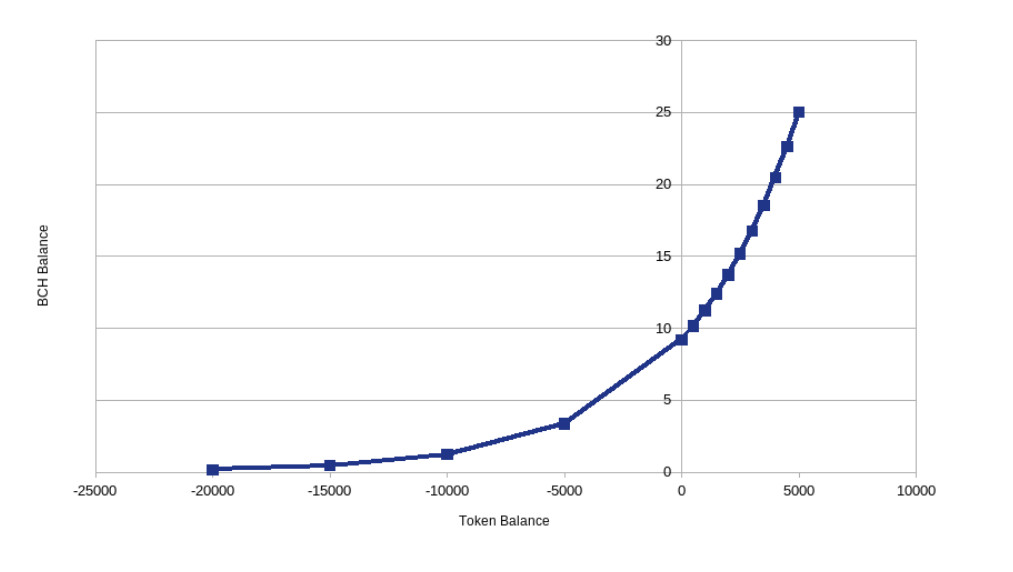
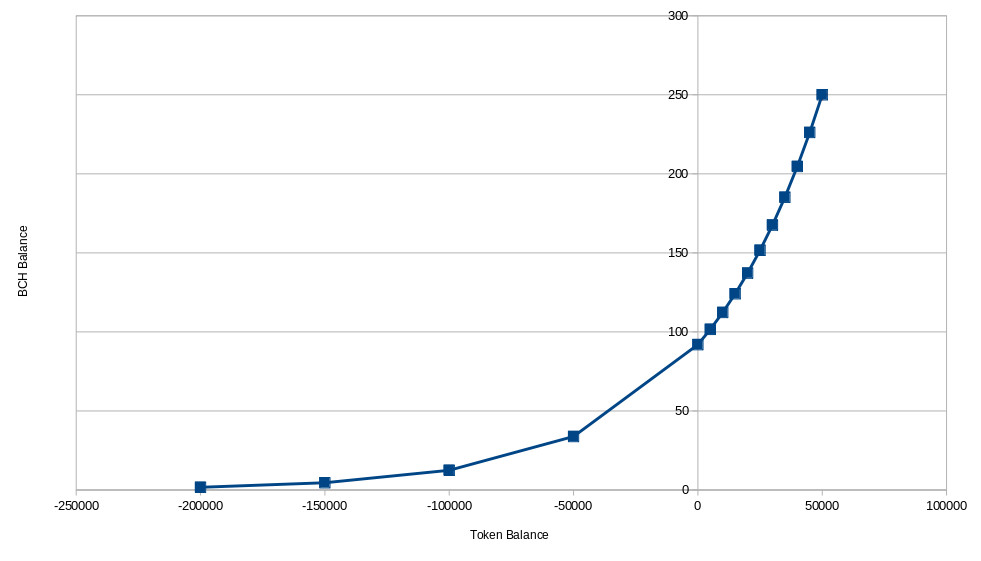
Updated biz plan with new ideas for funding

diff --git a/markdown/business-plan/business-plan.md b/markdown/business-plan/business-plan.md
@@ -1,11 +1,13 @@
 ---
-date: "2019-09-01"
+date: "2029-04-30"
 title: "PSF Token - Business Plan"
 root: "/biz-plan"
 path: "/biz-plan/business-plan"
 ---
 
 ## Table of Contents
+**Note**: The TOC has not been updated
+
 - Overview
   - [Executive Summary](#executiveSummary)
   - [The Problem: Underfunded Open Source Projects](#problem)
@@ -51,16 +53,17 @@ path: "/biz-plan/business-plan"
 
 
 ## Executive Summary<a name="executiveSummary"></a>
-This document lays out the business model and formation plans for the *Permissionless Software Foundation* (**PSF**). The Foundation is a community-oriented and legally-nonexistent organization whos purpose is to foster the <u>growth of open source software</u> and the <u>adoption of Bitcoin Cash</u> across the globe. The PSF will offer a Simple Ledger Protocol (**SLP**) token on the Bitcoin Cash (**BCH**) network to self-fund the development of open source software, and recognize contributors that help the organization grow.
+This document lays out the business model and formation plans for the *Permissionless Software Foundation* (**PSF**). The Foundation is a community-oriented, highly automated, and legally-nonexistent organization who's purpose is to foster the <u>growth of open source software</u> and the <u>adoption of Bitcoin Cash</u> across the globe. The PSF will offer a Simple Ledger Protocol (**SLP**) token on the Bitcoin Cash (**BCH**) network to self-fund the development of open source software, and reward contributors that help the organization grow.
 
-The focus of efforts will be on software that fits the software as a service (SaaS) business model, as that model lends itself best to the use of a native utility token. Many ideas are borrowed from [the Bancor whitepaper](https://github.com/Permissionless-Software-Foundation/token-liquidity/blob/master/docs/bancor-protocol-whitepaper.pdf), such as the concepts of token liquidity and forming a community that can self-fund through a native token. See [this video](https://youtu.be/LcbHTF3zCdI) for additional background. The *primary purpose of the token* is to <u>recognize</u> and <u>quantify</u> contributions by community members.
+The focus of efforts will be on the software as a service (SaaS) business model, as that model lends itself best to the use of a native utility token. The use of SaaS software by end-users imbues the token with financial value. Many ideas are borrowed from [the Bancor whitepaper](https://github.com/Permissionless-Software-Foundation/token-liquidity/blob/master/docs/bancor-formulas/bancor-protocol-whitepaper.pdf), such as the concepts of token liquidity and forming a community that can self-fund through a native token. See [this video](https://youtu.be/LcbHTF3zCdI) for additional background. The *primary purpose of the token* is to fund developers and other contributors, in order to maintain and improve the SaaS software produced by the Foundation.
 
-The Foundation will fund development of SaaS open source software projects. The value of this software will be monetized through the burning of PSF utility tokens. The Foundation will manage projects with the goal of creating a positive-reinforcement cycle between developers, software, and the pseudo-stable utility token. **The primary business problem that the token-economic model solves is rewarding contributors later in the software life cycle.**
+When end-users pay for software services, the BCH they pay goes to burn tokens, and BCH is captured in a special [token-liquidity application](https://github.com/Permissionless-Software-Foundation/token-liquidity) (inspired by the Bancor whitepaper). The price of the token is pegged to BCH through the use of the token-liquidity app, which provides perfect liquidity between BCH and the token. Contributors are funded via token-grants, by existing token holders. The token-liquidity application allows contributors to exchange their tokens for BCH.
 
-When the token is used to pay for software services, the tokens are burned, and BCH is captured in a special [token-liquidity application](https://github.com/Permissionless-Software-Foundation/token-liquidity), inspired by the Bancor whitepaper. This application allows community members to exchange their tokens for BCH, providing perfect liquidity. The price of the token is loosely pegged to BCH through an adjustable exchange rate. The loose peg allows supply and demand dynamics to work naturally, but retards wild market swings.
+As long as efforts by developers result in stable, valuable software services, the token will maintain its peg to BCH. New tokens are minted to fund developers, and old tokens are taken out of circulation through the burning mechanism of users consuming services. New tokens are directed by existing token holders to fund developer grants every three months.
+
 
 ## The Problem: Underfunded Open Source Projects<a name="problem"></a>
-Funding for open source software projects is a well studied and unsolved social problem, primarily due to the concept of [code rot](https://en.wikipedia.org/wiki/Software_rot) in modern software development. Rather than rehash or summarize the issue, interested readers should refer to this seminal work by Nadia Eghbal:
+Funding for open source software projects is a well studied and unsolved social problem, primarily due to the concept of [code rot](https://en.wikipedia.org/wiki/Software_rot) in modern software development. This problem includes the cryptocurrency space, but is much larger, encompassing the majority of the open source industry. Rather than rehash or summarize the issue, interested readers should refer to this seminal work by Nadia Eghbal:
 
 - [Roads and Bridges: The Unseen Labor Behind Our Digital Infrastructure](https://www.fordfoundation.org/about/library/reports-and-studies/roads-and-bridges-the-unseen-labor-behind-our-digital-infrastructure)
 
@@ -75,12 +78,12 @@ Here is a list of articles discussing this idea further:
 ## The Permissionless Software Foundation<a name="thePSF"></a>
 
 ### Mission<a name="mission"></a>
-The mission of the Permissionless Software Foundation is to foster the <u>growth of open source software</u> and the <u>adoption of Bitcoin Cash</u> across the globe. We belive this is the best way to promote individual sovereignty and increase prosperity. The Foundation will focus on the development, management, and promotion of software that makes it easy for individuals to protect their privacy, circumvent censorship, and engage in economic action.
+The mission of the Permissionless Software Foundation is to foster the <u>growth of open source software</u> and the <u>adoption of Bitcoin Cash</u> across the globe. We believe this is the best way to promote individual sovereignty and increase prosperity. The Foundation will focus on the development, maintenance, and promotion of software that makes it easy for individuals to protect their privacy, circumvent censorship, and engage in economic action.
 
 #### Tools to fight surveillance<a name="antiSurveillance"></a>
 The primary tool used to protect privacy is [the Tor network](https://www.torproject.org/). The Tor network and tor-accessible browsers like [Brave browser](https://brave.com/browser-option-a-hpa811/) work within the current [server-client paradigm](https://en.wikipedia.org/wiki/Client%E2%80%93server_model), but they provide a layer of anonymity by hiding the server IP address inside the Tor network.
 
-For financial privacy, cryptocurrency will be used, combined with obfuscation technologies such as [Consolidating CoinJoin](https://gist.github.com/christroutner/457b99b8033fdea5ae565687e6360323), [CashShuffle](https://cashshuffle.com/), or [Cash Fusion](https://news.bitcoin.com/bitcoin-cash-gets-significant-privacy-boost-with-cashfusion-alpha-launch/)
+For financial privacy, cryptocurrency will be used, combined with obfuscation technologies such as [CashShuffle](https://cashshuffle.com/), [Cash Fusion](https://news.bitcoin.com/bitcoin-cash-gets-significant-privacy-boost-with-cashfusion-alpha-launch/), or [Consolidating CoinJoin](https://gist.github.com/christroutner/457b99b8033fdea5ae565687e6360323).
 
 #### Tools to fight censorship<a name="antiCensorship"></a>
 The primary tool used to prevent censorship will be [IPFS](https://ipfs.io/) and the Bitcoin Cash blockchain. These two peer-to-peer (p2p) networks have individually [proven](http://la3.org/~kilburn/blog/catalan-government-bypass-ipfs/) robust censorship resistance throughout their short lives. The Foundation offers software that [combine these two technologies](https://troutsblog.com/about).
@@ -88,7 +91,7 @@ The primary tool used to prevent censorship will be [IPFS](https://ipfs.io/) and
 ### Governance<a name="governance"></a>
 
 #### Short-term, General Discussion<a name="generalDiscussion"></a>
-Day-to-day, short-term communication will take place on [this Telegram channel](https://t.me/permissionless_software). For private, end-to-end encrypted communication, we have created [this Tor-friendly chat web app]((https://chat.psfoundation.cash/))
+Day-to-day, short-term communication will take place on [this Telegram channel](https://t.me/permissionless_software). For private communication, we have a range of end-to-end encrypted applications.
 
 #### Long-term, Technical Discussion<a name="technicalDiscussion"></a>
 For long-term, technical discussions, GitHub Issues will be used. GitHub Issues have a proven and effective track record for technical collaboration. Issues will also be an important element in coordinating labor using the token economics presented in this document.
@@ -98,33 +101,13 @@ For long-term, technical discussions, GitHub Issues will be used. GitHub Issues 
 #### Discussion of Governance<a name="governanceDiscussion"></a>
 [Loomio](https://www.loomio.org/) is a proven platform for democratic discussion and decision making. Non-technical, long-term discussions, like those around governance, will take place on the [PSF Loomio group](https://www.loomio.org/join/group/46sYVVAhsMo5aWzr4jF71ZJS/).
 
-#### Board of Directors<a name="boardOfDirectors"></a>
-A board of directors will slowly be created to help govern the Foundation. The goal is to decentralize power within the organization so that no one entity represents a single point of failure. Pseudonyms for board members, to protect their identity from the wider world, will be allowed and encouraged.
+While none of the proposals on Loomio are binding, they will inform token holders who help fund new grants.
 
-The primary duties of the board of directors are short and simple:
-- The board has the sole power to create new tokens. The tokens are primarily used to recognize contributors that help the organization grow.<br /><br />
-
-- They can also approve the transfer of tokens or BCH into the token-liquidity app, in order to help the token stay close to the psudo-stable peg.
-
-To prevent abuse, seek consensus, and reduce central points of failure, new token issuance will require a 3-of-5 signature. New tokens can only be created if 3 of the 5 directors sign the transaction with their private key. Likewise, BCH held by the organization can only be spent if three of the five keys sign for the transaction.
-
-The ‘creation address’ for new tokens will be changed annually. In addition to good security, this process will ensure all board members are familiar with the process of adding and removing private keys, so that keys can be replaced easily if a security compromise occurs.
-
-Members of the board of directors will posses deep knowledge in one or more of these area:
-- Cryptography
-- Tor and obfuscation technologies
-- Business experience in the cryptocurrency space
-- JavaScript
-- Networking and Dev Ops
-- International law on cryptocurrencies
-
-#### Board of Advisors<a name="boardOfAdvisors"></a>
-A board of advisors will also be assembled to provide guidance on matters of technical, legal, and governance matters.
+#### Less is More
+The level of governance is intentionally minimized. Funding from new tokens is directed by existing token holders, because they have the most to lose if those fund are misallocated. In this way, governance is left up to a free market of stakeholders with 'skin in the game'.
 
 ## Token Economics<a name="tokenEconomics"></a>
-Before delving into the specifics of the token economics, it's important to keep the big picture in mind: The purpose of the mathematics behind the token is to allow free market supply-and-demand to control the price, but to institute 'guard rails' in the event of market panics or irrational exuberance, and thereby encourage the price of the token to gravitate towards a pseudo-stable price point.
-
-The value created by the Permissionless Software Foundation comes from both managing the software projects and managing this **pseudo-stable peg** between BCH and the token. The Foundation is as much an institution for creating software, as it is a central bank of their own community-based economy.
+Before delving into the specifics of the token economics, it's important to keep the big picture in mind: The purpose of the mathematics behind the token is to enable steady funding of development, and fair incentives for collaboration, in order to further the Foundation's mission.
 
 ### Token Creation, Issuance, and Wallet<a name="tokenCreation"></a>
 The proposed PSF token will be issued on the Bitcoin Cash (BCH) blockchain using the [Simple Ledger Token Protocol (SLP)](https://simpleledger.cash/). The token is currently exchanged using the [Badger Wallet](https://badger.bitcoin.com/), the [Bitcoin.com wallet](https://wallet.bitcoin.com), and several up-and-coming SLP token-aware wallets, by sending either BCH or PSF tokens to this BCH address:
@@ -138,7 +121,7 @@ The PSF token is identified by its unique SLP property token ID of:
 The minting baton for creating new tokens is active and controlled by the Permissionless Software Foundation. That means there is no cap on the token issuance. The Board of Directors of the Foundation will have the sole power to create tokens at-will, to reimburse or recognize the effort of community members.
 
 #### Value Creation<a name="valueCreation"></a>
-At the center of the token economics is the [liquidity app](https://github.com/Permissionless-Software-Foundation/token-liquidity), allowing community members to permissionlessly exchange tokens for Bitcoin Cash (or Bitcoin Cash for tokens) at any time. Because the Foundation has the sole power to create new tokens, it has the obligation to regulate the price of the token and work with the mathematics of the app to achieve a pseudo-stable price.
+At the center of the token economics is the [liquidity app](https://github.com/Permissionless-Software-Foundation/token-liquidity), allowing community members to permissionlessly exchange tokens for Bitcoin Cash (or Bitcoin Cash for tokens) at any time, while maintaining a peg to the Bitcoin Cash (BCH) coin.
 
 Price management is intended to follow a reinforcing ‘virtuous circle’ of value as follows:
 
@@ -147,7 +130,7 @@ Price management is intended to follow a reinforcing ‘virtuous circle’ of va
 2. Continuous efforts by developers and contributors make the software more valuable and should increase usage of the software.<br /><br />
 
 3. Users inject value into the token economy in one of two ways. Both activities increase the market price of the token.
-    - They acquire tokens to use the software by sending BCH to the liquidity app.
+    - They acquire tokens to use software by sending BCH to the liquidity app.
     - They pay BCH to the apps they interact with and that app sends a portion of the BCH to the token-liquidity app with instructions to burn that amount of tokens.
 
 4. Contributors can trade their tokens for BCH via the liquidity app. They can then spend the BCH directly or convert it into their local fiat currency via a local exchange.
@@ -158,63 +141,63 @@ To be clear, the token does not become more valuable because of the labor of the
 
 2. Studies have shown no correlation between the number of users and the number of developers in an open source project, which is why unfunded open source projects are such a big social problem (example: [the Heartbleed bug](https://mashable.com/2014/04/14/heartbleed-open-source/#IxuitorltiqZ)). This also means that targeted effort by a few developers can provide a great deal of value to a large population of users.
 
-**It is <u>demand for</u> and <u>usage of</u> software and services which monetize the token, that captures value and increases the price of the token.** This allows open source developers to capture value later in the software life cycle. Rewarding developers later in the software life cycle **is the problem this business model solves**.
+**It is <u>demand for</u> and <u>usage of</u> software and services which monetizes the token, captures value, and increases the price of the token.** This allows open source developers to capture value later in the software life cycle. Rewarding developers later in the software life cycle **is the main problem this business model solves**.
 
 #### Scope of Value: SaaS<a name="scopeOfValue"></a>
-Price appreciation of the token is directly tied to usage of the token and management of supply. For this reason, the Foundation must be very selective of the class of software it supports. The ‘Software as a Service’ business model is the most conducive, where usage of the software is directly tied to usage of the token. This business model will be a prerequisite for any project sponsored by the Foundation.
+The stability of the peg between BCH and the token is directly tied to <u>usage</u> of the token and management of <u>supply</u>. For this reason, token holders must be very selective of the class of software they support. The ‘Software as a Service’ business model is the most conducive, where usage of the software is directly tied to usage of the token. This business model will be a prerequisite for any project sponsored by the community governing the Permissionless Software Foundation.
 
 #### A Pseudo-Stable Token<a name="pseudoStableToken"></a>
 ##### Bancor & Liquidity<a name="bancor"></a>
 [The Bancor whitepaper](https://github.com/Permissionless-Software-Foundation/token-liquidity/blob/master/docs/bancor-protocol-whitepaper.pdf) was the original inspiration for the token liquidity app and token economics discussed below. They were the first to introduce the thesis that liquidity is what differentiates ‘real money’ from ‘pretend money’, and to facilitate perfect liquidity in cryptocurrencies through the use of an autonomous application. See [this video](https://youtu.be/LcbHTF3zCdI) for additional background.
 
-Using the [Metamask](https://metamask.io/) browser extension, funded with a small amount of Ethereum, you can play with their token liquidity apps by visiting https://bancor.network. This same user experience is possible on the Bitcoin Cash blockchain using [Badger Wallet](https://badger.bitcoin.com/) and the [token liquidity app](https://github.com/Permissionless-Software-Foundation/token-liquidity) introduced here.
+Using the [Metamask](https://metamask.io/) browser extension, funded with a small amount of Ethereum, you can play with their token liquidity apps by visiting [bancor.network](https://bancor.network). This same user experience is possible on the Bitcoin Cash blockchain using [Badger Wallet](https://badger.bitcoin.com/) and the [token liquidity app](https://github.com/Permissionless-Software-Foundation/token-liquidity) on the [PSF website](https://psfoundation.cash).
 
-While Bancors token liquidity concept was implemented as a smart contract on the Ethereum blockchain, the token liquidity app for the Permissionless Software Foundation is implemented as a web app on the BCH blockchain using the [SLP JavaScript SDK](https://developer.bitcoin.com/slp). While the mathematics governing the Foundation’s app is similar in nature, the original mathematics in the Bancor whitepaper was ultimately rejected in favor of the mathematics presented here. The curve below illustrates the effective 'exchange rate' between tokens and BCHs as a function of the apps balance of each.
+While Bancors token liquidity concept was implemented as a smart contract on the Ethereum blockchain, the token liquidity app for the Permissionless Software Foundation is implemented as a web app on the BCH blockchain using [FullStack.cash](https://fullstack.cash) software. While the mathematics governing the Foundation’s app is similar in nature, the original mathematics in the Bancor whitepaper was ultimately rejected in favor of the mathematics presented here. The curve below illustrates the effective 'exchange rate' between tokens and BCHs as a function of the apps balance of each.
 
-![Exchange Rate Curve](./images/app-curve.jpg 'The Exchange Rate curve for the token liquidity app as a function of the apps token and BCH balance.')
+![Exchange Rate Curve](./images/hybrid-exchange-rate1.jpg 'The Exchange Rate curve for the token liquidity app as a function of the apps token and BCH balance.')
 
-![./images/app-equations.jpg](./images/app-equations.jpg 'The equations governing the curve above.')
+![./images/app-equations.jpg](./images/app-equations.jpg 'The equations governing the curve with a balance less than 250 BCH.')
+
+![./images/app-equations-linear.jpg](./images/app-equations-linear.jpg 'The equations governing the curve with a balance greater than 250 BCH.')
 
 - I subscript denotes initial value.
 - Delta (Δ) denotes change in value.
 - Negative token balance: tokens in, BCH out
 - Positive token balance: tokens out, BCH in
 
-The liquidity app serves as an automated market maker, continuously adjusting the exchange rate according to the logarithmic equation above. The curve above was generated by assuming the app starts out with an initial balance of 25 BCH and 5000 tokens. This sets the <u>pseudo-stable price point</u> at 200 tokens-per-BCH (5000 / 25 = 200). These simple equations provide the following characteristics:
+The liquidity app serves as an automated market maker, continuously adjusting the exchange rate according to the logarithmic equation above. The curve above was generated by assuming the app starts out with an initial balance of 250 BCH and 50,000 tokens. This sets the <b>inflection point</b> at 200 tokens-per-BCH (50000 / 250 = 200). These simple equations provide the following characteristics:
 
 
-- **The application can never run out of BCH.** As more BCH is extracted from the app, the exchange rate decreases in such a way that the entire amount of BCH can never be completely extracted.<br /><br />
+- **The application can never run out of BCH.** As more BCH is extracted from the app, the exchange rate decreases according to the natural logarithm, so that the entire amount of BCH can never be completely extracted.<br /><br />
 
-- **The price of the token increases exponentially with demand.** Because of the rapid price appreciation, developers are incentivized to hold their tokens to maximize the profit from their efforts. But due to the liquidity provided by the app, they are free to ‘cash out’ at any time.<br /><br />
+- **The peg between the token and BCH remains constant as demand increases.** After the inflection point (at a balance of 250 BCH) is reached, the exchange rate is fixed at 200 tokens-per-bch. This allows for a predictable, steady exchange rate. Token holders are incentivized to only hold the token in order to actively participate in governance and **not** for price appreciation (speculation).<br /><br />
 
-- **Pseudo-stable price point.** The equation encourages a pseudo-stable price of 200 tokens per BCH. Buyers or sellers are increasingly disincentivized as the price is driven further from this point.<br /><br />
+- **Pseudo-stable peg.** The equation encourages a pseudo-stable peg of 200 tokens per BCH. Speculative buyers lose incentive and are replaced by stakeholders who are incentivized to encourage long-term growth through user-adoption of software. Below the inflection point, sellers are increasingly disincentivized as the peg changes to encourage speculative buying of the token.<br /><br />
 
 - **Fair price dynamics.** Because the pricing algorithm is transparent, all participants are fairly incentivized.<br /><br />
 
 The reasoning behind these core ideas are expanded below.
 
-##### High Demand: Capturing Value<a name="highDemand"></a>
-The figure below shows two alternative pricing algorithms. The blue line is the logarithmic curve presented above. The red line is a linear price curve, intersecting the same price point at 200 tokens-per-BCH. At a market value of $200 USD-per-BCH, the linear curve (red line) is equivalent to $1 per-token, and does not change as the token balance of the liquidity app changes.
+##### High Demand: Strong Peg, Good Governance<a name="highDemand"></a>
 
-![./images/linear-exchange-rate.jpg](./images/linear-exchange-rate.jpg 'Comparing the exchange rate curve with a linear exchange rate.')
+The figure below shows the logarithmic and linear pricing algorithm that the actual 'hybrid' algorithm is based on. The 'inflection point' in the graph below occurs at a balance of 250 BCH. This is where the exchange rate switches from logarithmic to linear.
 
-If the exchange rate of the token is fixed at $1 per token, then early contributors have no financial incentive to help with the initial development or hold the tokens they are paid with. To provide incentive for early adopters, the price curve must be above the red line as market demand for the token increases.
+The blue line is the logarithmic curve used to the left of the inflection point and the red line is used to the right of the inflection point. The yellow curve is the actual curve used to compute the exchange rate by the token-liquidity app.
 
-Not only does the increasing price allow contributors to profit from their efforts, it also allows the Foundation to capture value, in order to pay for operations and expand support for additional open source initiatives. As the price climbs 2x to 10x above the pseudo-stable point, new tokens will be issued by the Foundation and sent to the liquidity app in order to capture some of the BCH accumulating in the app. This will have the effect of driving the exchange rate back towards the pseudo-stable price.
+![./images/hybrid-comparison.jpg](./images/hybrid-comparison.jpg 'Comparing the exchange rate curve with a linear and logarithmic exchange rate.')
+
+To the right of the inflection point, the exchange rate is strongly pegged at 200 tokens-per-BCH. This reduces volatility and makes it easier to budget costs for grants, making governance by the community easier.
+
+Since the peg is locked, it also eliminates incentive for speculative investment. It means the only incentive to hold the token is for the purpose of governance, to direct newly minted funds into projects that will sustain the community.
 
 ##### Low Demand: Unprofitable Liquidity<a name="lowDemand"></a>
 If token issuance is mismanaged or investment of time is misallocated to unprofitable projects, there will be an over-supply of tokens in the market. This will drive the price of the token down. Token holders will always be able to ‘cash out’, but at an increasingly degraded exchange rate.
 
 ![./images/price-curve-tail.jpg](./images/price-curve-tail.jpg 'As tokens are extracted from the app, the exchange rate changes, preventing the app from running out of BCH.')
 
-If the price of the token is pushed so far away from the pseudo-stable price point as to become nonfunctional for use in SaaS applications (-10x to -100x), the Foundation will need to add BCH to the liquidity app to help prop up the price. The mathematics favor this.
+This will cause the exchange rate to increase above 200 tokens-per-bch, incentivizing speculative buyers to purchase the token. It will also incentivize sellers to hold onto the token until the peg is restored.
 
-It takes an exponentially increasing amount of tokens to extract a linear amount of BCH from the liquidity app as the price curve moves to the left of the pseudo-stable price point. To state that another way: As the BCH balance decreases, adding BCH to the app has increasing effectiveness at stabilizing the price. These mathematics retard the ability of panics in the marketplace to negatively affect the community, by making it easy for the Foundation to maintain a functional token.
-
-It will be important for the Foundation to maintain a reserve of BCH in order to support the liquidity app, in the event of such market panics.
-
-##### Price Gravity & Transparency<a name="priceGravity"></a>
-Hopefully the explanations above have revealed to the reader why the liquidity app is said to have a ‘pseudo-stable’ price point. As the price curve moves to the right of this point, human greed kicks in to bring the price back down. As the curve moves to the left of this point, sellers of the token are increasingly disincentivize and buyers incentivized. As such, the price tends to ‘gravitate’ towards the pseudo-stable price point and stabilize around it.
+It takes an exponentially increasing amount of tokens to extract a linear amount of BCH from the liquidity app as the price curve moves to the left of the inflection point. To state that another way: As the BCH balance of the app decreases, adding BCH to the app has increasing effectiveness at stabilizing the price. These mathematics retard the ability of panics in the marketplace to negatively affect the community, by making it easy for the community to maintain a functional token.
 
 
 #### Mitigating Catastrophic Failure<a name="migitatingFailure"></a>
@@ -231,24 +214,24 @@ In this way, the Foundation embraces the concept of forks. Every effort will be 
 ## Labor<a name="labor"></a>
 Just as financial investors risk capital in a venture, early contributors in the community risk their labor. The primary difference is that community developers are in direct control of the outcome, and can continuously adapt to a changing business environment.
 
-Because of the ‘price gravity’ of the token, early contributors have a barometer upon which to gauge market value for their labor. Assuming the liquidity app starts with initial balances of 25 BCH and 5000 tokens, the pseudo-stable price point is 200 tokens-per-BCH (5000 / 25 = 200). At a market value of $200 USD-per-BCH, the market value of the pseudo-stable price point is $1 USD per token. While the market value of BCH in USD or other fiat currency is free to fluctuate, the 200 tokens-per-BCH pseudo-stable price point will remain constant.
+Because of the 200 tokens-per-BCH peg, early contributors have a barometer upon which to gauge market value for their labor. Assuming the liquidity app starts with initial balances of 250 BCH and 50,000 tokens, the pseudo-stable price point is 200 tokens-per-BCH (50,000 / 250 = 200). At a market value of $200 USD-per-BCH, the market value of the token is $1 USD per token. While the market value of BCH in USD or other fiat currency is free to fluctuate, the 200 tokens-per-BCH pseudo-stable price point will remain constant. Contributors have both a value with which to gauge fair-market value for their labor, and direct control over the economic repercussions of their actions.
 
-Community members know in advance that the long-term price of the token should gravitate toward 200 tokens-per-BCH. Increasing demand for tokens in the market or increasing prices of BCH will both serve to increase the fiat-price of the token. Developers have both a value with which to gauge fair-market value for their labor, and direct control over the economic repercussions of their actions.
+Community members willing to be compensated in tokens, and then hold those tokens until the peg stabilizes, will make the best economic actors, and will be the most welcome early contributors. If the Foundation has other means of financing (such as BCH), they can use tokens to tip or supplement developers and thereby gain access to a wider pool of labor.
 
-Community members willing to be compensated in tokens, and then hold those tokens until the price increases above the pseudo-stable price point, will make the best economic actors, and will be the most welcome early contributors. If the Foundation has other means of financing (such as BCH), they can use tokens to tip or supplement developers and thereby gain access to a wider pool of labor.
+## Funding
 
-### Salaried Contributors<a name="salaries"></a>
-Core community members willing to risk their labor can be directly compensated by the Foundation in tokens. Labor can be tracked in a transparent, open manner using accounting software at [ovn.psfoundation.cash](https://ovn.psfoundation.cash). This [Open Value Network](https://wiki.p2pfoundation.net/Open_Value_Network) (OVN) software is similar to that used by [Sensorica NRP](http://nrp.sensorica.co/), who pioneered the concept.
+Every 13,000 blocks (approximately three months), existing PSF token holders will be air-dropped a new 'funding' token. The funding token will only be air-dropped to holders who's tokens have not moved in three months. Five percent of the amount of PSF tokens held will be air dropped as funding tokens.
 
-A market-value for labor, paid in tokens and based on the pseudo-stable price point, can be negotiated and distributed the same way as it would be for any fiat-paid salaried employee.
+For example, if an address holds 100 PSF tokens that have not moved in three months, it will be air dropped 5 funding tokens.
 
-### Bounties<a name="bounties"></a>
-[GitCoin](https://gitcoin.co/) and [GitCash](https://gitcash.io/) are two permissionless bounty programs that have been used to pay developers in cryptocurrencies and tokens. While interfacing the PSF token to these platforms will be advantageous, it is not critical, as the workflow of both platforms is not difficult to replicate.
+Prior to the air-drop, developers and other contributors are free to submit grant proposals along with an SLP address for funding. Receivers of the funding token are expected to send their funding tokens to the SLP addresses as they see fit in order to fund the grants.
 
-Conventional Agile software practices can be used to break larger projects into small tasks. GitHub Issues can be created for each task and tagged with a PSF token bounty. Developers are free to claim and fulfil Issues (permissionlessly) by submitting Pull Requests (PR) that meet the specifications in the Issue. Once a PR is accepted into the code base, the bounty can be released to the developers Bitcoin Cash address. This can be done manually or in an automated fashion.
+Every 13,100 blocks (approximately 1 week later), the funding tokens held by the grant SLP addresses will recieve an air-drop of an equal amount of newly minted PSF tokens.
 
-### Freelance Developers<a name="freelance"></a>
-More platforms are available for specialized needs that can not be directly serviced by the community. Cryptocurrency-based freelance platforms like [FreelanceForCoins.com](https://freelanceforcoins.com/) or [LazyFox.io](https://lazyfox.io/), channels on cryptocurrency developer chat rooms like the [Bitcoin Cash Association](https://discord.gg/gNhPRw7), and fiat-based freelance platforms like [Upwork.com](https://www.upwork.com/) can all be used to find the appropriate expertise. Tokens can be used to tip or subsidize bids for labor on these platforms.
+### Potential Issues
+
+- One way to game the above system would be to buy a bunch of PSF tokens, hold them for three months, submit a grant, then fund it with the air-dropped funding tokens. When they are converted to new PSF tokens, the person could pocket the 5% increase in their net-worth without doing any work.
+  - There needs to be a way to veto scam grants. Perhaps Loomio could be used for this?
 
 
 ## Projects<a name="projects"></a>
